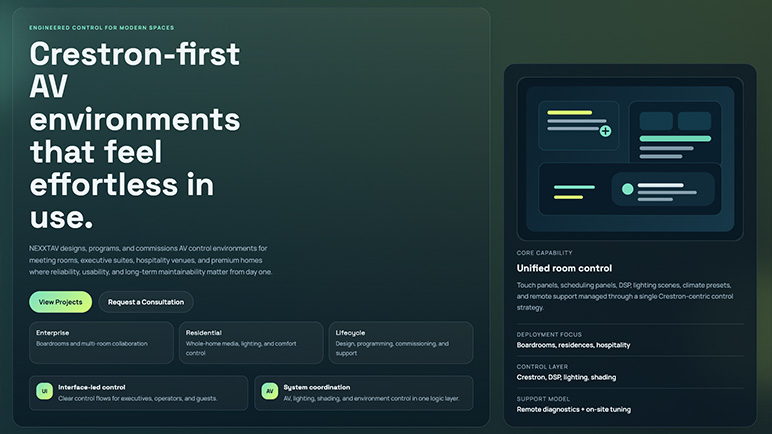
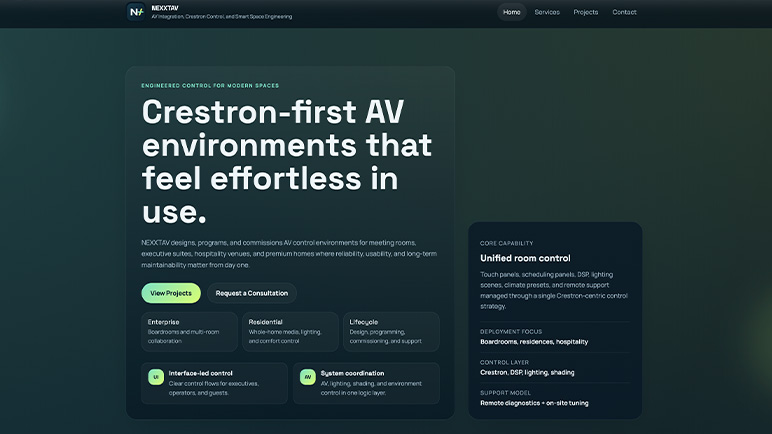
[upd]

diff --git a/samples/avsp/index.html b/samples/avsp/index.html
@@ -95,9 +95,6 @@
           </div>
 
           <aside class="hero-card">
-            <figure class="hero-card__visual">
-              <img class="hero-card__image" src="assets/img/hero-control.svg" alt="Control dashboard illustration for AV system management">
-            </figure>
             <p class="hero-card__label">Core capability</p>
             <h2 class="hero-card__title">Unified room control</h2>
             <p class="hero-card__text">
@@ -300,8 +297,8 @@
           </div>
 
           <div class="project-showcase">
-            <article class="project-tile project-tile--wide">
-              <img class="project-tile__image" src="assets/img/project-rooms.svg" alt="Corporate boardroom AV installation illustration">
+            <article class="project-tile">
+              <img class="project-tile__image" src="assets/img/project-rooms.svg" alt="Global finance headquarters">
               <p class="project-tile__category">Executive boardroom</p>
               <h3 class="project-tile__title">Global finance headquarters</h3>
               <p class="project-tile__text">
@@ -311,14 +308,14 @@
             </article>
 
             <article class="project-tile">
-              <span class="project-tile__icon project-tile__icon--residence" aria-hidden="true"></span>
+              <img class="project-tile__image" src="assets/img/project-rooms.svg" alt="Waterfront smart villa">
               <p class="project-tile__category">Luxury residence</p>
               <h3 class="project-tile__title">Waterfront smart villa</h3>
               <p class="project-tile__text">Unified lighting, shading, climate, and media experiences across six living zones.</p>
             </article>
 
             <article class="project-tile">
-              <span class="project-tile__icon project-tile__icon--hub" aria-hidden="true"></span>
+              <img class="project-tile__image" src="assets/img/project-rooms.svg" alt="Training and experience center">
               <p class="project-tile__category">Innovation hub</p>
               <h3 class="project-tile__title">Training and experience center</h3>
               <p class="project-tile__text">Flexible presets for workshops, client presentations, livestream sessions, and guided demonstrations.</p>

diff --git a/samples/avsp/assets/css/styles.css b/samples/avsp/assets/css/styles.css
@@ -98,7 +98,7 @@ textarea {
 
 .container {
   width: calc(100% - (var(--container-gutter) * 2));
-  max-width: none;
+  max-width: 1320px;
   margin: 0 auto;
 }
 
@@ -358,7 +358,6 @@ textarea {
   border-radius: var(--radius-lg);
 }
 
-.hero-card__visual,
 .page-hero__visual {
   margin: 0 0 1.2rem;
 }
@@ -397,8 +396,11 @@ textarea {
   line-height: 1.02;
 }
 
+.contact-panel__title {
+  margin-bottom: 0.5em;
+}
+
 .hero__title {
-  max-width: 12ch;
   font-size: clamp(2.8rem, 4vw, 5.2rem);
 }
 
@@ -416,7 +418,6 @@ textarea {
 }
 
 .hero__text {
-  max-width: 60ch;
   margin: 1.4rem 0 0;
   font-size: 1.05rem;
 }
@@ -732,7 +733,7 @@ textarea {
 }
 
 .project-showcase {
-  grid-template-columns: 1.45fr 1fr 1fr;
+  grid-template-columns: repeat(3, minmax(0, 1fr));
 }
 
 .project-tile {
@@ -741,10 +742,6 @@ textarea {
   flex-direction: column;
   justify-content: end;
   gap: 0.75rem;
-}
-
-.project-tile--wide {
-  min-height: 24rem;
 }
 
 .project-tile__image {
@@ -921,6 +918,7 @@ textarea {
 .form-field {
   display: grid;
   gap: 0.55rem;
+  margin: 1rem 0;
 }
 
 .form-field__label {
